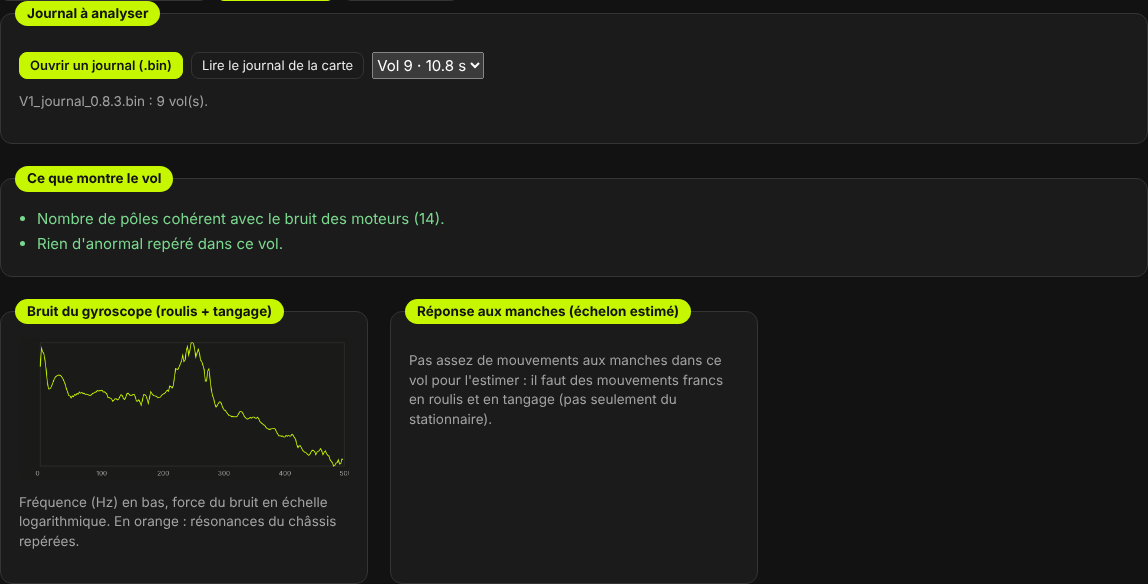
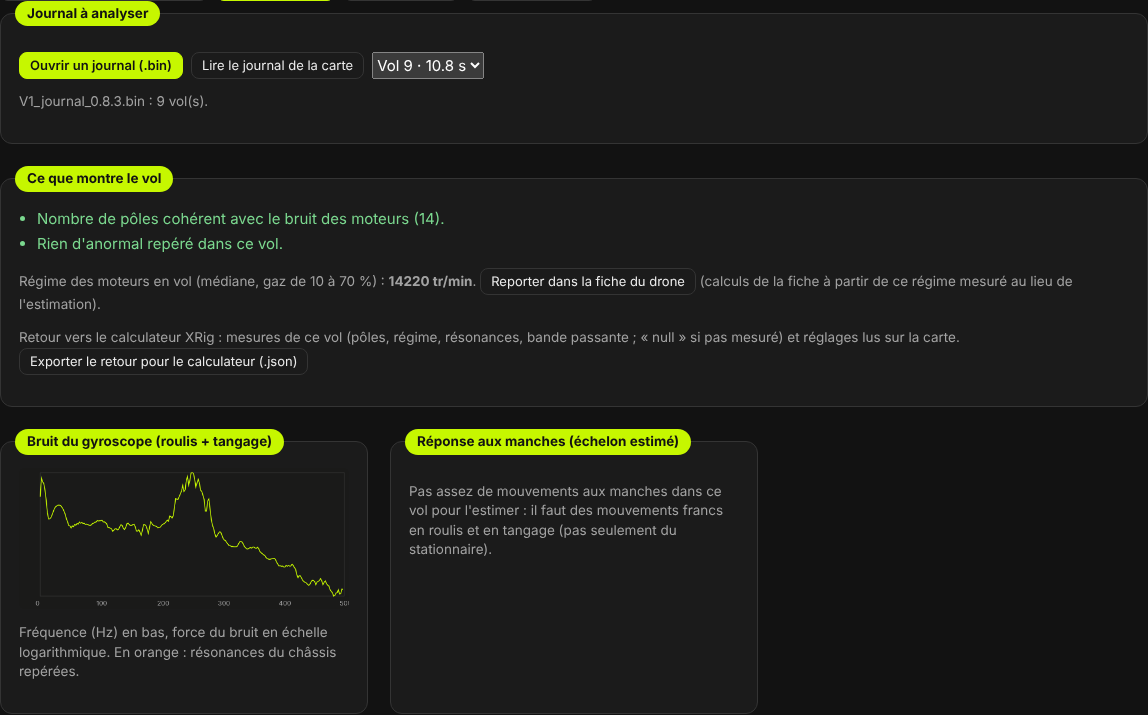
0.8.6 : notes de version, batterie choisie dans les lunettes, balayage CHIRP, diff all, calculateur XRig, image de fond de l'OSD, esc_pont ; KarRmen en 4S 1300

diff --git a/docs/assistant.html b/docs/assistant.html
@@ -79,6 +79,9 @@
       <li><a href="#reglage">Réglage proposé</a></li>
       <li><a href="#vol">Analyser un vol</a></li>
       <li><a href="#kv">Contrôle du KV</a></li>
+      <li><a href="#chirp">Balayage (CHIRP)</a></li>
+      <li><a href="#diff">Analyser ma configuration</a></li>
+      <li><a href="#calculateur">Calculateur XRig</a></li>
     </ul>
   </aside>
 
@@ -106,6 +109,16 @@
       <b>Reporter dans la fiche du drone</b> (partie Analyser un vol) remplace l'estimation par le régime mesuré au
       stationnaire. Sur KarRmen, l'estimation donnait 19 900 tr/min, le premier vol en a mesuré 14 220. L'<b>entraxe</b> sert à
       l'accélération de rotation : les taux proposés sont ramenés à ce que le drone peut suivre en 0,15 s.</p>
+    <p>Depuis la 0.8.6 :</p>
+    <ul>
+      <li><b>PID selon l'inertie</b> (option de la fiche) : quand la répartition des composants est connue, l'inertie de
+        roulis est comparée à celle d'un 5 pouces et le curseur maître est ajusté (entre 0,7 et 1,4 fois). Réglage
+        <b>provisoire</b>, marqué comme tel : il sera réglé avec des vols de grands drones.</li>
+      <li><b>ESC : fréquence PWM</b> : un conseil selon l'hélice et le KV, à régler dans l'ESC lui-même ; jamais un
+        réglage de la carte de vol.</li>
+      <li>Chaque champ dit d'où vient sa valeur (saisie, fiche, calculateur, mesurée en vol) ; une valeur inconnue reste
+        « à saisir ».</li>
+    </ul>
 
     <h2 id="reglage">Réglage proposé</h2>
     <figure>
@@ -156,11 +169,48 @@
     </ul>
     <p>Le bruit des moteurs au-dessus de 500 Hz se replie dans le journal (1 000 mesures par seconde) : l'analyse en
       tient compte et ne le prend pas pour une résonance.</p>
+    <p><b>Exporter le retour pour le calculateur (.json)</b> (0.8.6) : garde les mesures du vol (pôles, régime au
+      stationnaire, résonances, bande passante après un balayage) pour les reprendre dans le calculateur. Une mesure
+      absente reste vide : jamais une estimation.</p>
 
     <h2 id="kv">Contrôle du KV</h2>
     <p><b>Hélices retirées</b>, batterie branchée, drone désarmé : <b>Lancer le contrôle</b> fait tourner les 4 moteurs à
       20 % pendant 3 s, puis compare la vitesse mesurée au KV saisi (<code>motor_kv</code>) : KV estimé ≈ tr/min ÷
       (tension × 0,20). Seul un écart net (plus de 30 %) est signalé ; la page ne change jamais <code>motor_kv</code>.</p>
+
+    <h2 id="chirp">Balayage (CHIRP)</h2>
+    <figure>
+      <img class="t-sombre" src="../assets/img/doc-assistant-chirp.png" alt="Sous-onglet Balayage (CHIRP) : mode d'emploi et réglages du balayage"><img class="t-clair" src="../assets/img/doc-assistant-chirp-clair.png" alt="Sous-onglet Balayage (CHIRP) : mode d'emploi et réglages du balayage">
+      <figcaption>Mode d'emploi et réglages du balayage (capture avec une fausse carte).</figcaption>
+    </figure>
+    <p>Firmware 0.8.6 : le mode <b>CHIRP</b> (à mettre sur un interrupteur, onglet <a href="modes.html">Modes</a>) fait
+      osciller le drone de plus en plus vite, un axe après l'autre (roulis, tangage, lacet), pendant un stationnaire
+      stable manches au centre. Par défaut : de 0,5 à 60 Hz en 15 s par axe. Les lunettes affichent
+      <code>CHIRP ROULIS</code>, puis <code>CHIRP TANGAGE</code> et <code>CHIRP LACET</code>.</p>
+    <ul>
+      <li><b>Bouger un manche</b> arrête le balayage tout de suite ; il ne reprend qu'après avoir coupé puis remis
+        l'interrupteur.</li>
+      <li>Ensuite, ouvrir le journal dans <b>Analyser un vol</b> : la réponse en fréquence de chaque axe donne la bande
+        passante, le dépassement et le retard, avec les corrections proposées.</li>
+      <li>Pas encore essayé en vol : c'est l'essai V3 de KarRmen.</li>
+    </ul>
+
+    <h2 id="diff">Analyser ma configuration</h2>
+    <p>Depuis la 0.8.6, l'assistant compare le réglage proposé à un <code>diff all</code> : <b>Comparer avec un diff all
+      collé</b> (copié depuis Betaflight ou XPro, carte non branchée) ou <b>Lire le diff all de la carte</b>. Il donne
+      les écarts et les commandes à coller, avec le profil actif du diff.</p>
+    <p>Au premier branchement d'une carte, son <b>état d'origine</b> est relevé et gardé dans le navigateur
+      (<b>Voir l'état d'origine</b>, <b>Remplacer l'état d'origine</b>) : l'assistant montre ensuite ce qui a changé depuis,
+      réglage par réglage, avant de proposer quoi que ce soit.</p>
+
+    <h2 id="calculateur">Calculateur XRig</h2>
+    <p>Deux boutons de la fiche reprennent un fichier exporté par le calculateur TalkTrue XRig (0.8.6) :</p>
+    <ul>
+      <li><b>Reprendre un drone XRig (.json)</b> : la configuration du drone (composants, masse, entraxe, répartition
+        des composants, d'où l'inertie autour du centre de gravité).</li>
+      <li><b>Données d'une étude</b> : la configuration plus les résultats de l'étude (poussée, vitesse, S·Cx et Cx).</li>
+    </ul>
+    <p>Chaque valeur reprise est marquée « calculateur » et reste corrigeable à la main.</p>
   </article>
 </div>
 

diff --git a/docs/notes-de-version.html b/docs/notes-de-version.html
@@ -75,6 +75,7 @@
     </ul>
     <h2>Sur cette page</h2>
     <ul>
+      <li><a href="#v086">0.8.6</a></li>
       <li><a href="#v085">0.8.5</a></li>
       <li><a href="#v084">0.8.4</a></li>
       <li><a href="#v083">0.8.3</a></li>
@@ -86,14 +87,40 @@
 
   <article>
     <h1>Notes de version</h1>
-    <p class="chapeau">Ce qui change dans le firmware et le logiciel XPro, de la 0.8.0 à la 0.8.5. Chaque version se
+    <p class="chapeau">Ce qui change dans le firmware et le logiciel XPro, de la 0.8.0 à la 0.8.6. Chaque version se
       termine par un seul essai sur KarRmen ; on ne passe à la suivante qu'avec l'essai réussi.</p>
     <p>Les versions 0.8.x sont des versions de banc (« 0.8.4-banc » dans <code>version</code>). Les mesures citées sont
       celles de KarRmen.</p>
 
+    <h2 id="v086">0.8.6 : batterie dans les lunettes, balayage de fréquences</h2>
+    <p>Firmware écrit le 23/10/2026, intégré au logiciel. Il contient la 0.8.5, qui n'est pas essayée à part : essais
+      prévus sur KarRmen, V1b (premier vol refait en 4S 1300), V2 (menu des lunettes, vol en ANGLE), puis V3 (batterie
+      choisie dans les lunettes, balayage). 3 798 vérifications sur PC, plus 172 pour la liaison des ESC. Rien encore
+      en vol.</p>
+    <h3>Firmware</h3>
+    <ul>
+      <li><b>Batterie choisie dans le menu des lunettes</b> : deux capacités de plus (<code>bat_capacity_2</code>,
+        <code>bat_capacity_3</code>) pour des batteries de même nombre d'éléments, et la ligne
+        <a href="menu-lunettes.html#batterie">BAT</a> du menu. Sans batterie 2 ni 3, rien ne change.</li>
+      <li><b>Balayage de fréquences</b> : mode <a href="modes.html">CHIRP</a> (122), axe par axe, arrêté dès qu'un manche
+        bouge ; réglages <code>chirp_*</code> (amplitude par axe, 0,5 à 60 Hz, 15 s par axe) ; message dans les
+        lunettes et marque dans le journal.</li>
+      <li><b>Pont des ESC</b> : commande <a href="cli.html"><code>esc_pont</code></a>, pour régler les ESC à travers la
+        carte de vol avec XPro ESC Configurator.</li>
+    </ul>
+    <h3>Logiciel</h3>
+    <ul>
+      <li><a href="assistant.html">Assistant de réglage</a> : sous-onglet Balayage (CHIRP) et analyse de la réponse en
+        fréquence ; PID selon l'inertie (provisoire) ; conseil de fréquence PWM des ESC ; <code>diff all</code> collé ou
+        lu sur la carte, avec l'état d'origine relevé au premier branchement ; reprise d'un drone ou d'une étude du
+        calculateur TalkTrue XRig ; export des mesures d'un vol pour le calculateur.</li>
+      <li>Onglet <a href="alimentation.html#capacite">Alimentation et batterie</a> : batteries 2 et 3, batterie
+        utilisée. Lignes de KarRmen : capacité 1 300 mAh, celle de la 4S de ses vols.</li>
+      <li>Onglet <a href="osd.html#apercu">OSD</a> : image de fond au choix derrière l'aperçu.</li>
+    </ul>
+
     <h2 id="v085">0.8.5 : profil choisi selon la batterie</h2>
-    <p>Firmware écrit le 23/10/2026. Essai prévu : V1b (premier vol refait en 4S 1300), puis V2. 3 719 vérifications
-      sur PC.</p>
+    <p>Firmware écrit le 23/10/2026, compris dans la 0.8.6 (pas d'essai à part). 3 719 vérifications sur PC.</p>
     <p>Au vol V1, KarRmen a volé sa 4S sur le profil 3S « 15053S ». La carte choisit bien le profil PID selon le nombre
       d'éléments (<code>auto_profile_cell_count</code>, comme Betaflight), mais aucun profil n'était réglé pour la 4S.</p>
     <h3>Firmware</h3>

diff --git a/docs/alimentation.html b/docs/alimentation.html
@@ -164,7 +164,7 @@
 
     <h2 id="capacite">Capacité et BAT %</h2>
     <p><code>bat_capacity</code> donne la capacité de la batterie en mAh (0 = inconnue, défaut). KarRmen vole avec
-      1 550 mAh.</p>
+      une 4S 1 300 mAh (Tattu R-Line).</p>
     <p>Depuis la 0.8.4, <b>BAT %</b> (batterie restante, dans les lunettes et à la radio) se calcule en deux temps :</p>
     <ol class="etapes">
       <li>Au branchement, une fois les éléments comptés, la carte estime la charge de départ d'après la tension au repos
@@ -176,9 +176,11 @@
       estimé tient compte de cette charge de départ.</p>
     <p>Sans courant mesuré ou sans <code>bat_capacity</code>, BAT % n'est pas calculé : les lunettes affichent
       « -- ».</p>
-    <p><code>bat_capacity</code> est un seul réglage pour toutes les batteries : la tension ne permet pas de distinguer une
-      4S 1300 mAh d'une 4S 1550 mAh. Avec plusieurs capacités, régler la plus petite : BAT % baisse alors trop vite avec
-      la grande batterie, jamais trop lentement.</p>
+    <p>La tension ne permet pas de distinguer une 4S 1300 mAh d'une 4S 1550 mAh. Depuis la 0.8.6, le cadre
+      <b>Batterie et alarmes</b> a deux capacités de plus, <code>bat_capacity_2</code> et <code>bat_capacity_3</code>
+      (0 = aucune, défaut), et <code>bat_capacity_choice</code> (batterie utilisée, 1 à 3). La batterie se choisit
+      sans PC, ligne <b>BAT</b> du <a href="menu-lunettes.html#batterie">menu des lunettes</a>. Sans batterie 2 ni 3,
+      rien ne change. Avec un firmware plus ancien, ces cases affichent « -- ».</p>
 
     <h2 id="profils">Profil PID selon la batterie</h2>
     <p>Comme <code>auto_profile_cell_count</code> sous Betaflight : chaque profil PID peut être lié à un nombre
@@ -199,8 +201,9 @@
 
     <h2 id="karrmen">Réglages de KarRmen à coller</h2>
     <p>Le cadre <b>Réglages de KarRmen à coller</b> reprend les trois réglages batterie que KarRmen avait changés sous
-      Betaflight (<code>diff all</code> du 14/10/2026) et le choix du profil selon la batterie :</p>
-    <pre><code>set bat_capacity = 1550
+      Betaflight (<code>diff all</code> du 14/10/2026) et le choix du profil selon la batterie. La capacité est celle de
+      la batterie de ses vols, la 4S 1300 mAh (le <code>diff all</code> de Betaflight avait 1550) :</p>
+    <pre><code>set bat_capacity = 1300
 set vbat_min_cell_voltage = 350
 set vbat_warning_cell_voltage = 370
 profile 2

diff --git a/docs/menu-lunettes.html b/docs/menu-lunettes.html
@@ -77,6 +77,7 @@
     <ul>
       <li><a href="#ouvrir">Ouvrir le menu</a></li>
       <li><a href="#choisir">Choisir les profils</a></li>
+      <li><a href="#batterie">Ligne BAT (0.8.6)</a></li>
       <li><a href="#enregistrer">Enregistrer ou quitter</a></li>
       <li><a href="#securite">Sécurités</a></li>
       <li><a href="#status">Dans status</a></li>
@@ -119,10 +120,21 @@
     <p>Un mouvement par poussée : remettre le manche au centre avant le suivant. Le nom du profil s'affiche à côté de
       son numéro quand il en a un. Le bas de l'écran rappelle « TANGAGE : LIGNE   ROULIS : CHOISIR ».</p>
 
+    <h2 id="batterie">Ligne BAT (0.8.6)</h2>
+    <p>Quand une batterie 2 ou 3 est réglée (onglet <a href="alimentation.html#capacite">Alimentation et batterie</a>),
+      une ligne <b>BAT</b> apparaît sous TAUX : numéro de la batterie et sa capacité. Le roulis passe d'une batterie à
+      l'autre ; ENREGISTRER la rend active pour BAT % et le temps restant. Sans batterie 2 ni 3, la ligne n'est pas
+      affichée et le menu reste celui de la 0.8.4.</p>
+    <figure>
+      <img src="../assets/img/doc-menu-bat.png" alt="Écran XPRO : PROFILS avec la ligne BAT < 1 1300MAH > sous TAUX">
+      <figcaption>Image tirée du code de l'OSD du firmware 0.8.6 : la batterie 1 (1 300 mAh) est choisie.</figcaption>
+    </figure>
+
     <h2 id="enregistrer">Enregistrer ou quitter</h2>
     <ul>
       <li><b>ENREGISTRER ET QUITTER</b> (roulis à droite) : les deux profils choisis deviennent actifs et sont
-        enregistrés dans la carte. Le message <b>ENREGISTRE : PID n, TAUX n</b> reste affiché 2 secondes, puis le menu
+        enregistrés dans la carte. Le message <b>ENREGISTRE : PID n, TAUX n</b> (suivi de <b>BAT n</b> quand la ligne BAT
+        est affichée) reste affiché 2 secondes, puis le menu
         se ferme.</li>
       <li><b>QUITTER SANS CHANGER</b> (roulis à droite) : le menu se ferme, rien ne change.</li>
     </ul>

diff --git a/index.html b/index.html
@@ -107,7 +107,7 @@
         <a class="btn plein" href="#telecharger">Téléchargement bientôt disponible</a>
         <a class="btn" href="docs/index.html">Documentation</a>
       </div>
-      <div class="etat"><span>Version 0.8.4</span><span>Premier vol le 18/10/2026</span><span>KarRmen, 3″ 4S, 379 g</span></div>
+      <div class="etat"><span>Version 0.8.6</span><span>Premier vol le 18/10/2026</span><span>KarRmen, 3″ 4S, 379 g</span></div>
     </div>
     <figure>
       <img data-fixe src="assets/img/bbe-vue.png" alt="Visualiseur Blackbox du logiciel XPro avec le premier vol de KarRmen">
@@ -198,16 +198,16 @@
       <div class="telecharger">
         <div class="carte-dl">
           <h3>Logiciel XPro</h3>
-          <div class="version">TrueGlide-XPro.html · 0.8.4</div>
+          <div class="version">TrueGlide-XPro.html · 0.8.6</div>
           <ul>
             <li>Ouvrir le fichier, brancher la carte en USB, <b>Connexion</b>.</li>
-            <li><b>Flasher le firmware</b> : le firmware 0.8.4 est déjà dans le fichier.</li>
+            <li><b>Flasher le firmware</b> : le firmware 0.8.6 est déjà dans le fichier.</li>
             <li>Avant le premier flash : <b>Sauvegarde complète</b> de la carte, pour revenir à Betaflight à tout moment.</li>
           </ul>
         </div>
         <div class="carte-dl">
           <h3>Firmware</h3>
-          <div class="version">trueglide_0.8.4_STM32F405_SPEEDYBEEF405MINI.hex</div>
+          <div class="version">trueglide_0.8.6_STM32F405_SPEEDYBEEF405MINI.hex</div>
           <ul>
             <li>Carte prise en charge : SpeedyBee F405 Mini (STM32F405, ICM-42688-P, baromètre DPS310 / SPL06).</li>
             <li>Récepteur CRSF (ExpressLRS), ESC en DShot300 bidirectionnel, émetteur vidéo Walksnail en MSP.</li>

diff --git a/docs/cli.html b/docs/cli.html
@@ -122,7 +122,7 @@
     <p>Une mesure inconnue ou trop ancienne s'affiche <code>--</code>, jamais un chiffre.</p>
 
     <h2 id="commandes">Les commandes</h2>
-    <p>Liste relevée dans le firmware 0.8.4. <code>help</code> (ou <code>aide</code>) l'affiche dans la carte. Il n'y
+    <p>Liste relevée dans le firmware 0.8.6. <code>help</code> (ou <code>aide</code>) l'affiche dans la carte. Il n'y
       a pas de commande <code>dump</code> : <code>diff all</code> donne tous les réglages.</p>
 
     <h3>État et mesures</h3>
@@ -194,6 +194,8 @@
         la carte bouge.</td></tr>
       <tr><td><code>beep</code></td><td>Essai du buzzer.</td></tr>
       <tr><td><code>pinio 1 on</code> | <code>off</code></td><td>Essai : PINIO 1 au niveau armé ou désarmé.</td></tr>
+      <tr><td><code>esc_pont</code></td><td>0.8.6 : pont vers les ESC, pour les régler avec XPro ESC Configurator à
+        travers la carte de vol ; la carte redémarre à la fin. Pas encore essayé avec de vrais ESC.</td></tr>
       <tr><td><code>bl</code></td><td>Redémarrage en mode DFU, pour flasher.</td></tr>
       <tr><td><code>reboot</code></td><td>Redémarrage.</td></tr>
       <tr><td><code>test_chien_de_garde</code></td><td>Bloque le firmware exprès : la carte doit redémarrer seule en moins

diff --git a/docs/modes.html b/docs/modes.html
@@ -148,8 +148,11 @@
         inclinée, seulement en mode ANGLE (onglet <a href="speeder.html">Speeder</a>).</td></tr>
       <tr><td><b>FPV ANGLE MIX</b></td><td>121</td><td>Roulis et lacet tournés de l'angle de la caméra
         (<code>fpv_mix_degrees</code>) : vol en acro, image à plat (onglet <a href="camera.html">Caméra</a>).</td></tr>
+      <tr><td><b>CHIRP</b></td><td>122</td><td>Firmware 0.8.6 : balayage de fréquences, axe par axe, en stationnaire
+        manches au centre ; un manche bougé l'arrête (<a href="assistant.html#chirp">Assistant de réglage</a>). Pas
+        encore essayé en vol.</td></tr>
     </table></div>
-    <p>Les numéros sont ceux de Betaflight pour les cinq premiers ; 120 et 121 sont propres à XPro.</p>
+    <p>Les numéros sont ceux de Betaflight pour les cinq premiers ; 120, 121 et 122 sont propres à XPro.</p>
 
     <h2 id="karrmen">Les plages de KarRmen</h2>
     <p>Relevées sous Betaflight 2025.12.2 (<code>diff all</code> du 14/10/2026) et reprises dans XPro :</p>

diff --git a/docs/index.html b/docs/index.html
@@ -90,7 +90,7 @@
       <a href="mise-en-route.html"><b>Mise en route</b><span>De Betaflight à XPro : sauvegarde de la carte, flash, réglages collés, essais au banc puis premier vol.</span></a>
       <a href="tableau-de-bord.html"><b>Tableau de bord</b><span>État de la carte dès la connexion : firmware, gyroscope, démarrage, batterie, armement.</span></a>
       <a href="flasher.html"><b>Flasher le firmware</b><span>Firmware intégré au logiciel, passage en DFU, sauvegarde et retour à Betaflight.</span></a>
-      <a href="notes-de-version.html"><b>Notes de version</b><span>Ce qui change d'une version à l'autre, de la 0.8.0 à la 0.8.4.</span></a>
+      <a href="notes-de-version.html"><b>Notes de version</b><span>Ce qui change d'une version à l'autre, de la 0.8.0 à la 0.8.6.</span></a>
     </div>
     <h2>Installation du drone</h2>
     <div class="pages">

diff --git a/docs/flasher.html b/docs/flasher.html
@@ -92,7 +92,7 @@
     <figure>
       <img class="t-sombre" src="../assets/img/onglets/flasher.png" alt="Onglet Flasher le firmware : cadre Sauvegarde complète de la carte, puis cadre Flasher la carte par USB"><img class="t-clair" src="../assets/img/onglets/flasher-clair.png" alt="Onglet Flasher le firmware : cadre Sauvegarde complète de la carte, puis cadre Flasher la carte par USB">
       <figcaption>En haut, la sauvegarde complète et la restauration. En bas, le flash : firmware inclus (ici
-        <code>trueglide_0.8.4_STM32F405_SPEEDYBEEF405MINI.hex</code>), autre fichier, effacement complet, et le
+        <code>trueglide_0.8.6_STM32F405_SPEEDYBEEF405MINI.hex</code>), autre fichier, effacement complet, et le
         journal des opérations.</figcaption>
     </figure>
 

diff --git a/docs/osd.html b/docs/osd.html
@@ -120,6 +120,9 @@
       <li><b>Enregistrer dans la carte</b> pour la garder.</li>
     </ol>
     <p>Les éléments en gris dans l'aperçu sont ceux que les lunettes dessinent elles-mêmes.</p>
+    <p><b>Image de fond…</b> met une photo derrière l'aperçu, pour juger la lisibilité comme dans les lunettes (textes
+      cernés de noir). La photo est recadrée au format de l'écran (le haut est gardé pour une photo en hauteur) et
+      reste dans le navigateur, rien n'est envoyé à la carte. <b>Fond gris</b> remet le fond d'origine.</p>
 
     <h2 id="reglages">Les réglages</h2>
     <div class="tableau"><table>
